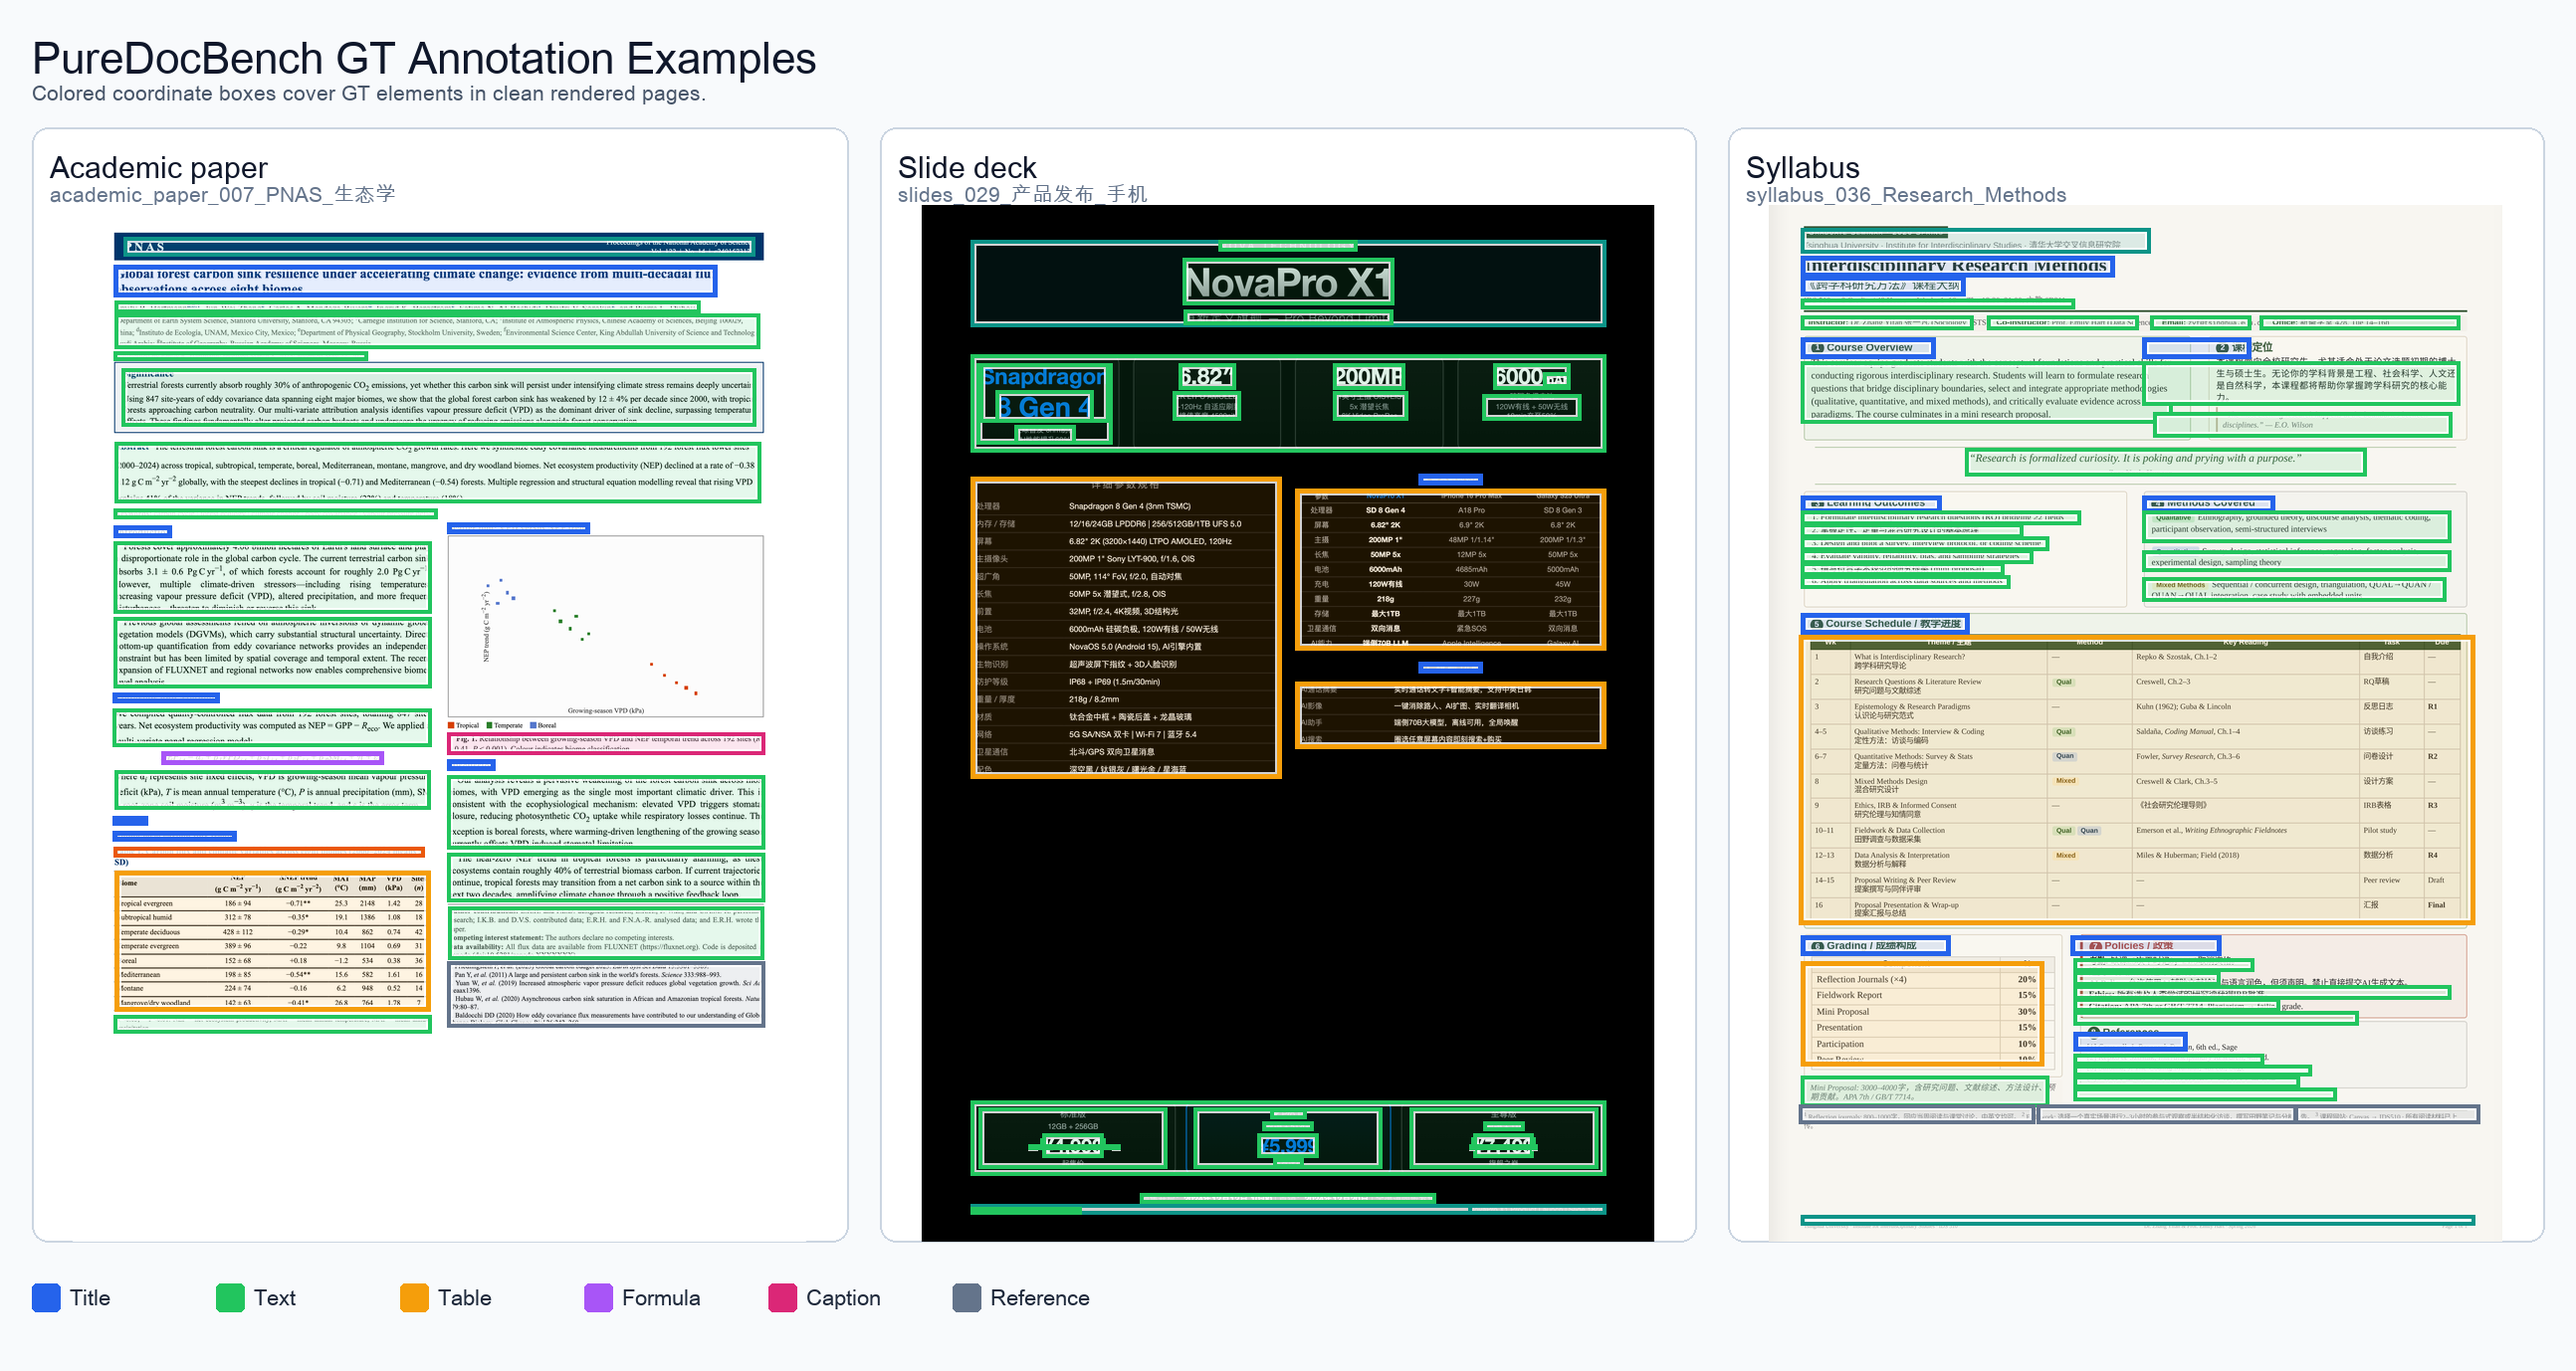
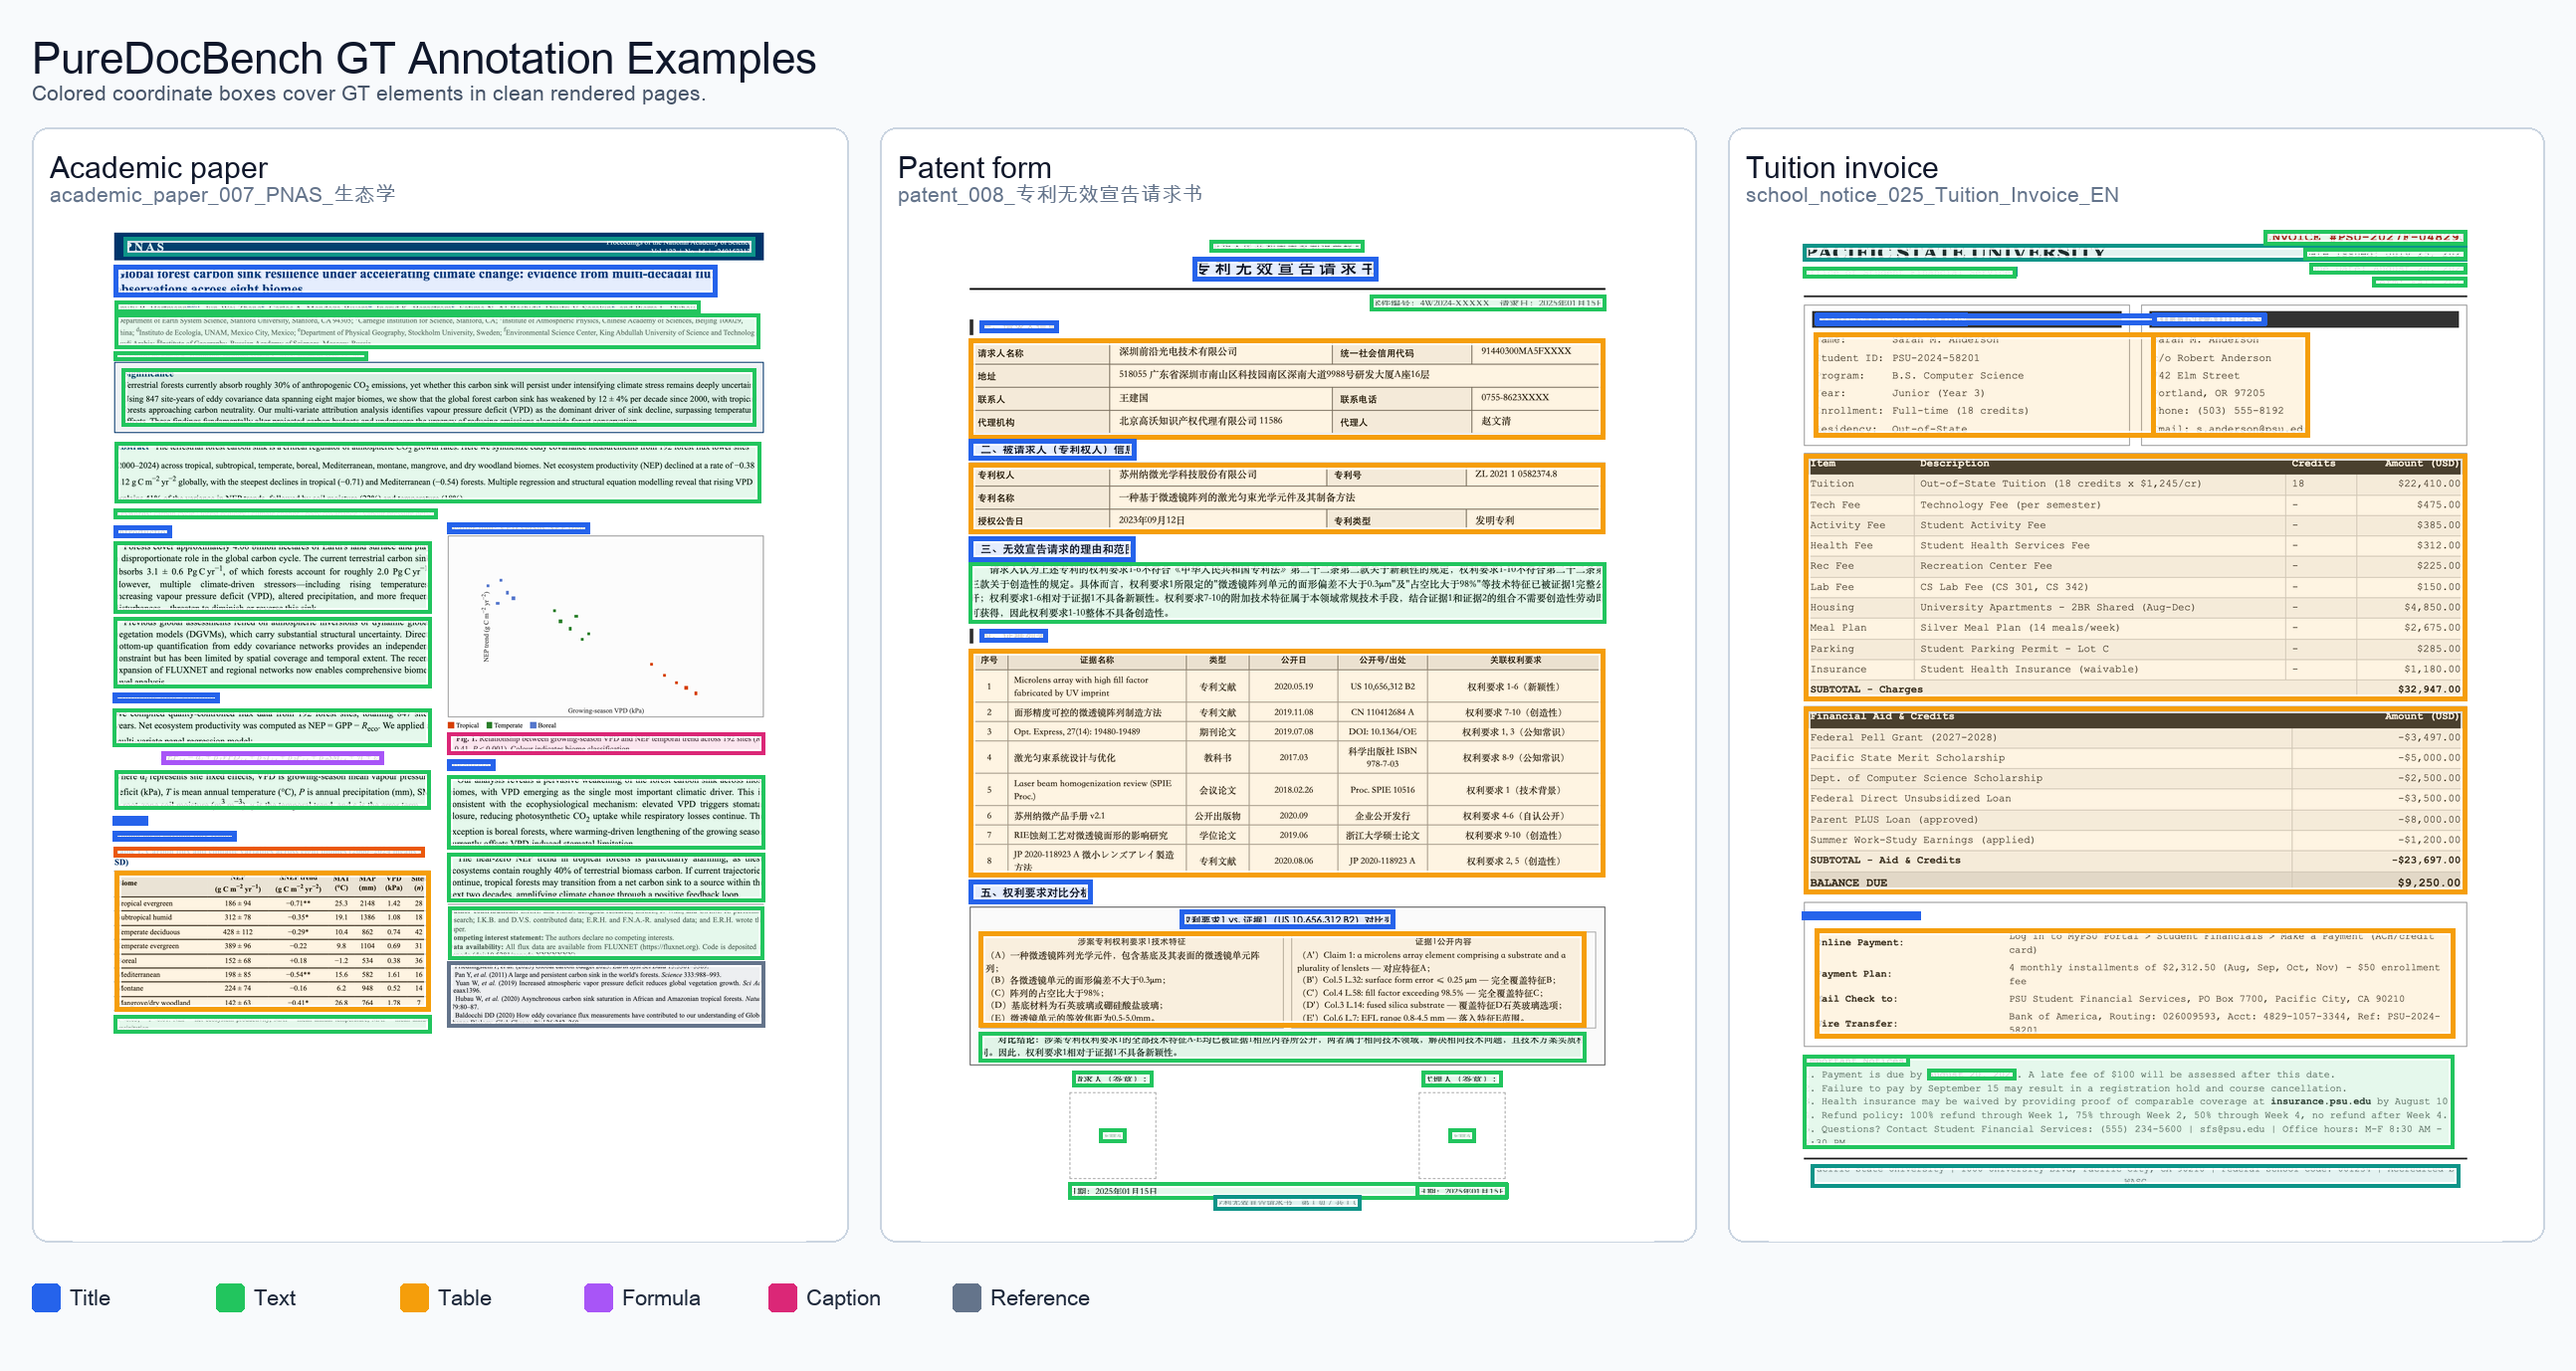
Replace GT annotation example cases

diff --git a/README.md b/README.md
@@ -30,7 +30,7 @@ PureDocBench 是一个源可追踪的 OCR / 文档解析 benchmark。数据由 H
 
 ## GT Annotation Examples
 
-The examples below show colored coordinate boxes over clean rendered pages from an academic paper, a slide deck, and a syllabus.
+The examples below show colored coordinate boxes over clean rendered pages from an academic paper, a patent form, and a tuition invoice.
 
 <p align="center">
   <img src="assets/figures/gt_coordinate_overlay_examples.png" alt="PureDocBench GT coordinate annotation examples" width="98%">
